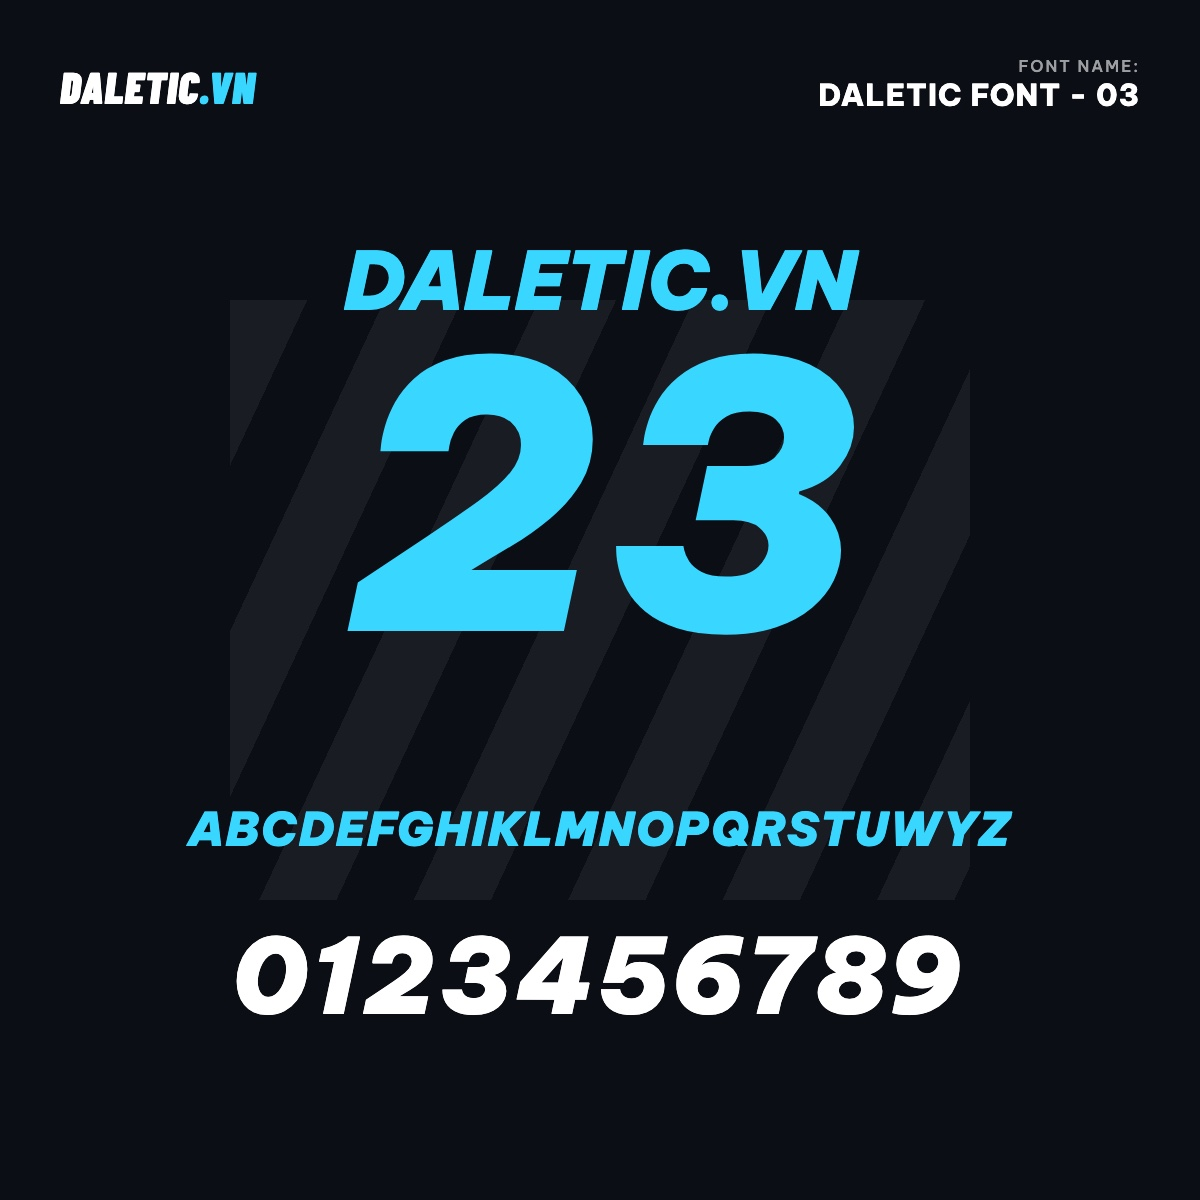
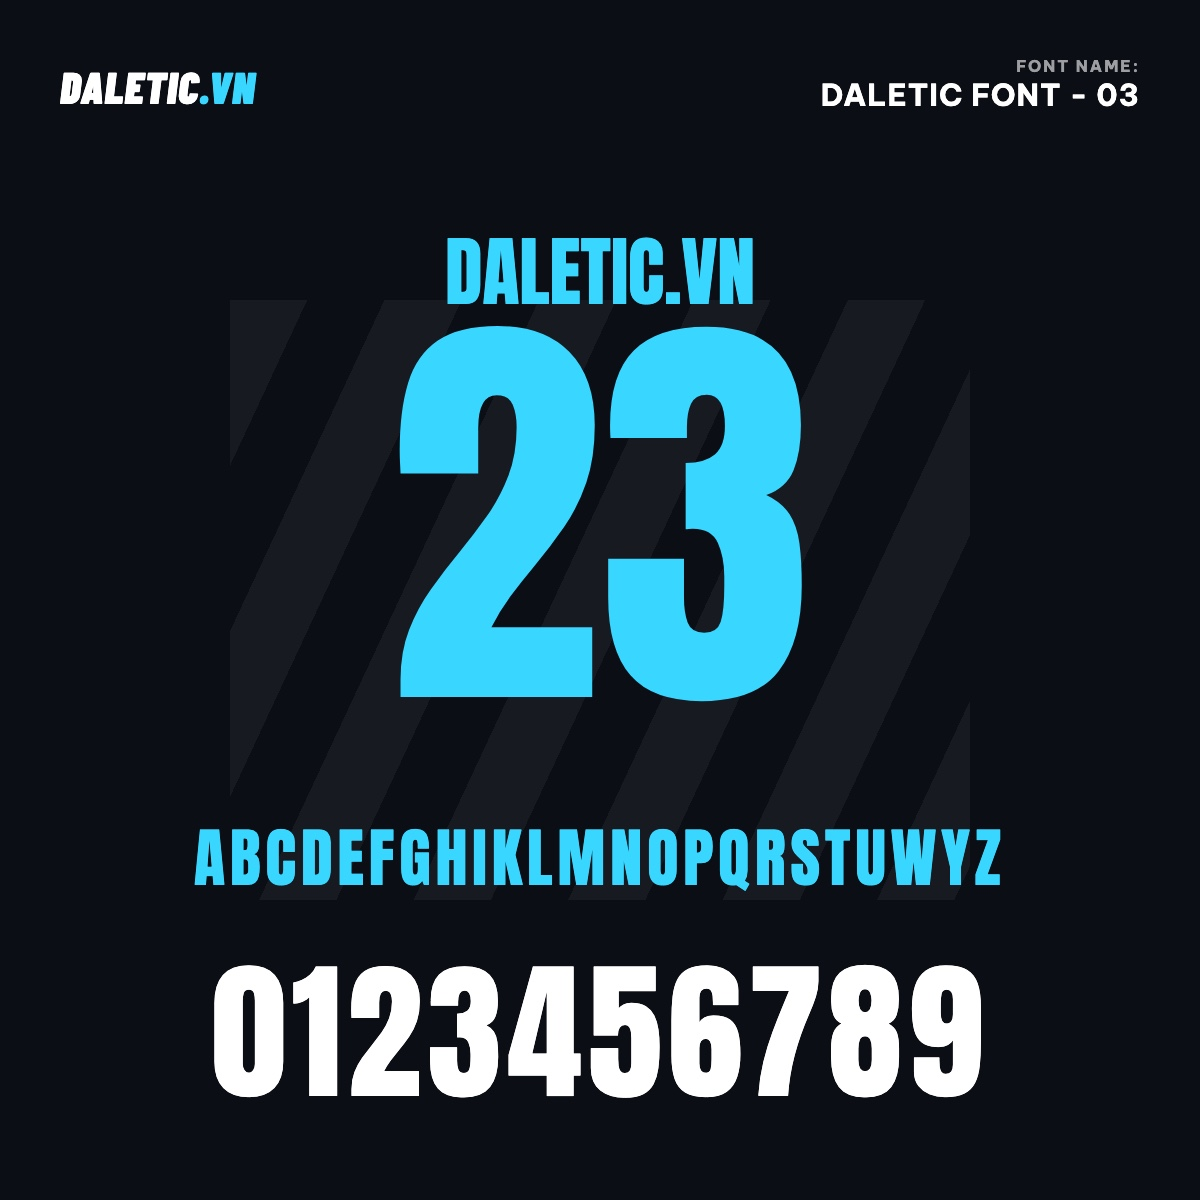
feat(fonts): jersey number fonts (OFL Google Fonts); hotline 0819.66.6868

diff --git a/bin/add-daletic-fonts.php b/bin/add-daletic-fonts.php
@@ -7,6 +7,9 @@
  * category thumbnail by apply-category-images.php (both run at the end).
  *
  * Add a font = one line in $fonts + bin/product-photos/{slug}.jpg (1200px).
+ * Re-running updates names/descriptions of existing slugs.
+ * Previews are rendered from free Google Fonts (OFL): Big Shoulders Display,
+ * Teko, Anton, Russo One, Graduate, Saira Extra Condensed.
  *
  * Run via: docker compose run --rm wpcli eval-file lukasports-bin/add-daletic-fonts.php
  */
@@ -16,12 +19,12 @@ if ( ! class_exists( 'WooCommerce' ) ) {
 }
 
 $fonts = array(
-	array( 'font-daletic-01-vang', 'Font DALETIC 01 – Chữ Nghiêng Đậm Vàng', 'Font chữ và số nghiêng đậm, màu vàng nổi bật — hợp áo tối màu.' ),
-	array( 'font-daletic-02-do', 'Font DALETIC 02 – Chữ Nghiêng Đậm Đỏ', 'Font chữ và số nghiêng đậm, màu đỏ mạnh mẽ cho áo đấu.' ),
-	array( 'font-daletic-03-xanh-troi', 'Font DALETIC 03 – Chữ Bản Rộng Xanh Trời', 'Font bản rộng nghiêng, màu xanh trời, dễ đọc từ xa.' ),
-	array( 'font-daletic-04-xanh-la', 'Font DALETIC 04 – Chữ Bản Rộng Xanh Lá', 'Font bản rộng thẳng, màu xanh lá sáng, nét đều và gọn.' ),
-	array( 'font-daletic-05-cam', 'Font DALETIC 05 – Chữ Nghiêng Gọn Cam', 'Font nghiêng nét gọn, màu cam năng động.' ),
-	array( 'font-daletic-06-trang', 'Font DALETIC 06 – Chữ Bản Rộng Trắng', 'Font bản rộng nghiêng, màu trắng — hợp mọi màu áo tối.' ),
+	array( 'font-daletic-01-vang', 'Font DALETIC 01 – Số Hẹp Vai Vuông (Big Shoulders)', 'Số và chữ hẹp, vai vuông, nét đậm — kiểu số áo đấu giải chuyên nghiệp châu Âu, Mỹ.' ),
+	array( 'font-daletic-02-do', 'Font DALETIC 02 – Số Hẹp Góc Cạnh (Teko)', 'Số và chữ hẹp, góc cạnh, nét dày — hiện đại, dễ đọc từ xa trên sân.' ),
+	array( 'font-daletic-03-xanh-troi', 'Font DALETIC 03 – Số Siêu Đậm (Anton)', 'Số cực đậm, thân cao — nổi bật trên mọi màu áo, in decal và ép nhiệt đều rõ nét.' ),
+	array( 'font-daletic-04-xanh-la', 'Font DALETIC 04 – Số Vát Cạnh Công Nghệ (Russo One)', 'Số vát góc kiểu áo đấu công nghệ, nét đều, bản vừa — hợp áo thi đấu trẻ trung.' ),
+	array( 'font-daletic-05-cam', 'Font DALETIC 05 – Số Varsity Cổ Điển (Graduate)', 'Số kiểu varsity có chân vuông, phong cách đội trường, bóng rổ và áo retro.' ),
+	array( 'font-daletic-06-trang', 'Font DALETIC 06 – Số Hẹp Vát Cạnh (Saira)', 'Số hẹp, cạnh vát gọn — kiểu áo đua và thể thao điện tử, hợp tên dài trên lưng áo.' ),
 );
 
 $term = term_exists( 'font-chu-in-ao', 'product_cat' );
@@ -42,8 +45,14 @@ $category_id = (int) ( is_array( $term ) ? $term['term_id'] : $term );
 
 $created = 0;
 foreach ( $fonts as list( $slug, $name, $short ) ) {
-	if ( get_page_by_path( $slug, OBJECT, 'product' ) ) {
-		WP_CLI::log( "Exists: $slug" );
+	$existing = get_page_by_path( $slug, OBJECT, 'product' );
+	if ( $existing ) {
+		$product = wc_get_product( $existing->ID );
+		$product->set_name( $name );
+		$product->set_short_description( $short );
+		$product->set_description( "<p>{$short}</p>\n<p>Nhắn DALETIC để chọn font, nhận mockup tên và số trước khi in. Có thể in tên, số, logo đội theo yêu cầu.</p>" );
+		$product->save();
+		WP_CLI::log( "Updated: $slug" );
 		continue;
 	}
 	$product = new WC_Product_Simple();

diff --git a/wp-content/plugins/lukasports-core/includes/settings.php b/wp-content/plugins/lukasports-core/includes/settings.php
@@ -15,7 +15,7 @@ define( 'LUKASPORTS_CORE_SETTINGS_OPTION', 'lukasports_settings' );
 
 function lukasports_core_settings_defaults() {
 	return array(
-		'hotline_display'   => '0819.666.868',
+		'hotline_display'   => '0819.66.6868',
 		'hotline_tel'       => '+84819666868',
 		'messenger_url'     => 'https://m.me/61569257930689',
 		'zalo_url'          => 'https://zalo.me/0819666868',

diff --git a/wp-content/themes/lukasports/inc/helpers.php b/wp-content/themes/lukasports/inc/helpers.php
@@ -22,7 +22,7 @@ function lukasports_get_contact_info() {
 	}
 
 	$defaults = array(
-		'hotline_display'    => '0819.666.868',
+		'hotline_display'    => '0819.66.6868',
 		'hotline_tel'        => '+84819666868',
 		'messenger_url'      => 'https://m.me/61569257930689',
 		'zalo_url'           => 'https://zalo.me/0819666868',
